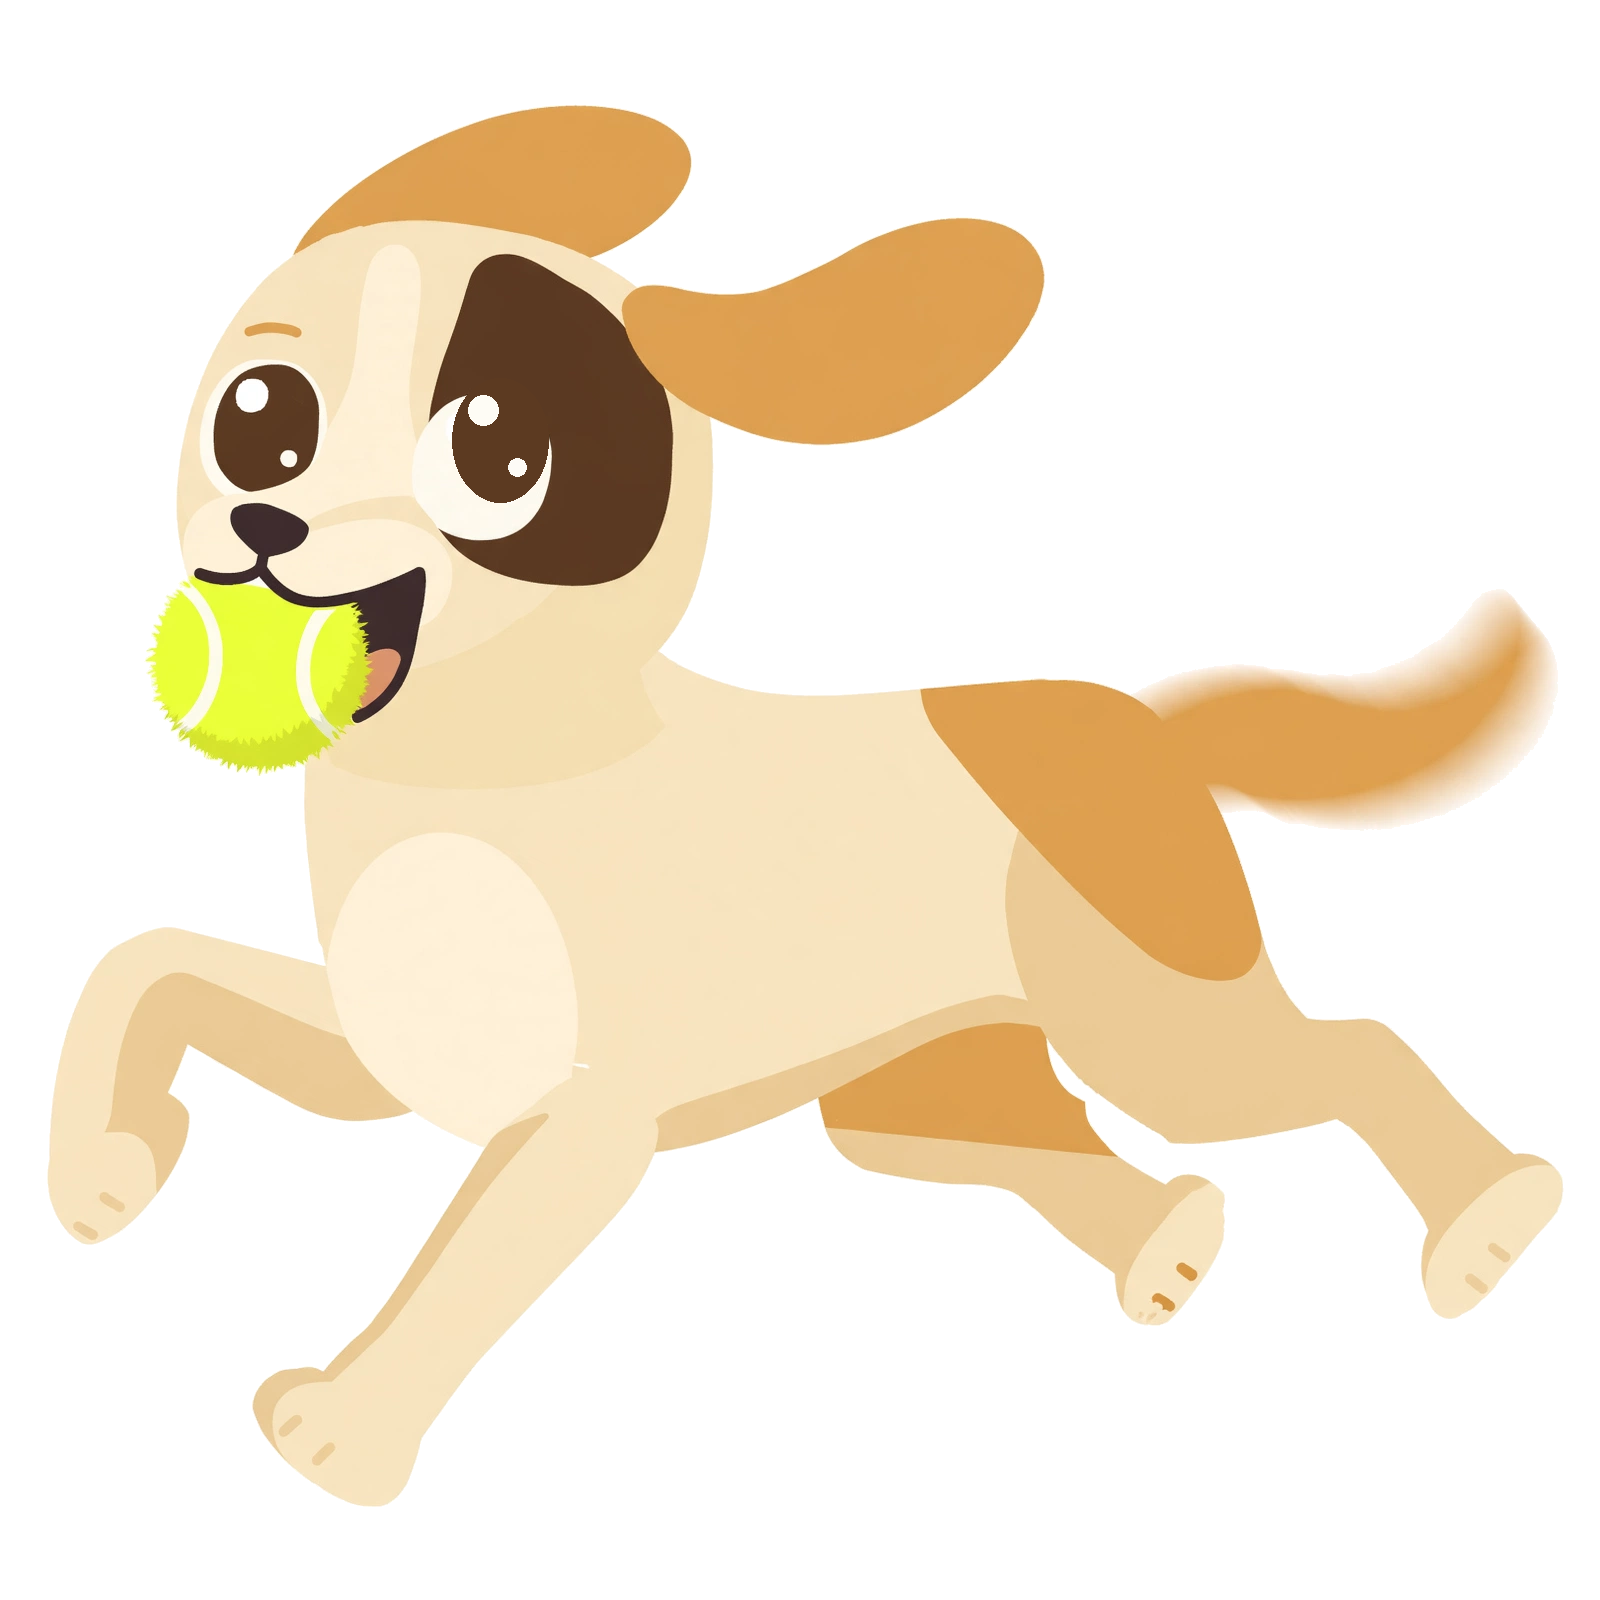
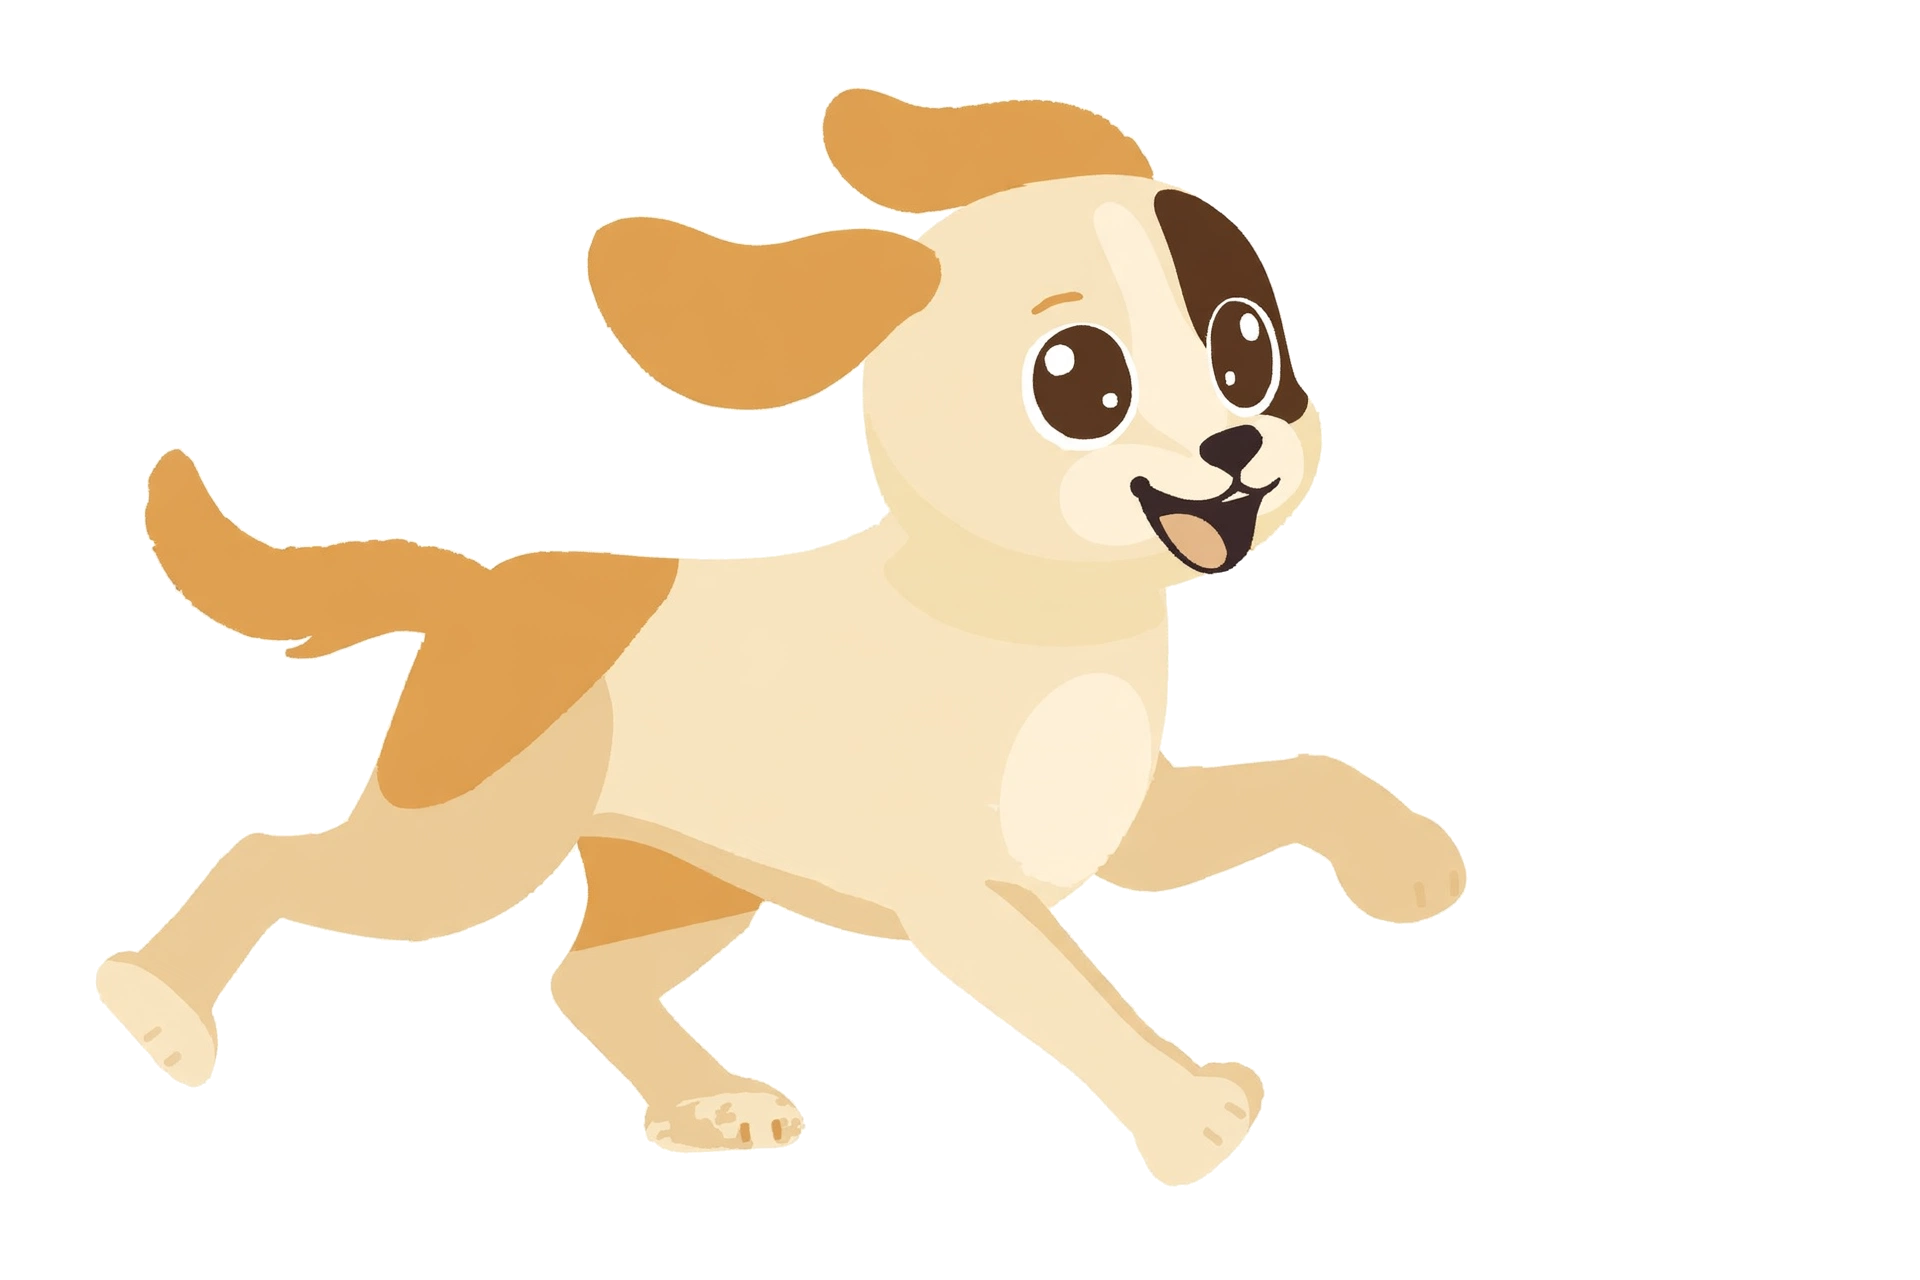
My Ghar: dog roams, faces, walks, real fetch; fetch pose ball removed

diff --git a/myghar.html b/myghar.html
@@ -4,7 +4,7 @@
 <meta charset="utf-8">
 <meta name="viewport" content="width=device-width, initial-scale=1">
 <title>Ghar — My Ghar</title>
-<link rel="stylesheet" href="style.css?v=14">
+<link rel="stylesheet" href="style.css?v=15">
 <script src="https://unpkg.com/@rive-app/webgl2@2.49.4/rive.js"></script>
 <script src="assets/js/bhunte-rive.js"></script>
 </head>
@@ -182,6 +182,109 @@ function poseImgFor(pose) {
   const isGrownup = dogStageFor(xp) === 2;
   if (isGrownup && POSE_IMGS[pose + "_grownup"]) return POSE_IMGS[pose + "_grownup"];
   return POSE_IMGS[pose];
+}
+// ---- The dog is alive: roaming, facing, walking, fetching. ----
+// Like the app's SpriteDogView, the website dog wanders the rug on its
+// own, faces the way it walks, walks (faster bob + tilt) while moving,
+// and on Fetch it runs out, picks the ball up, and carries it back.
+// The dog is 5 elements (static img, 3 Rive canvases, pose img) that all
+// share .myghar-dog; roaming moves them together via `left` (the dog-bob
+// animation only touches `transform`, so the two compose). Facing is a
+// --flip variable read inside every dog keyframe, so the flip composes
+// with the bob/walk/bounce instead of being overridden.
+const ROAM_MIN = 30, ROAM_MAX = 65, ROAM_HOME = 47.5;
+let dogRoamX = ROAM_HOME;   // current left % of the dog (all elements)
+let dogFacingLeft = false;  // false = facing right (normal)
+let roamTimer = null;
+let fetchTimers = [];
+function dogElements() {
+  return ["dog", "dog-rive", "dog-rive-puppy", "dog-rive-grownup", "dog-pose"]
+    .map(id => document.getElementById(id)).filter(Boolean);
+}
+function setDogFacing(left) {
+  dogFacingLeft = left;
+  dogElements().forEach(el => el.classList.toggle("facing-left", left));
+}
+function setDogLeft(pct, seconds) {
+  // Glide all dog elements to left pct%. `seconds` overrides the CSS
+  // 1.6s transition for faster moves (fetch).
+  dogElements().forEach(el => {
+    el.style.transition = seconds ? `left ${seconds}s ease-in-out` : "";
+    el.style.left = pct + "%";
+  });
+  dogRoamX = pct;
+}
+function setDogWalking(on) {
+  dogElements().forEach(el => el.classList.toggle("walking", on));
+}
+function dogIsLocked() {
+  try { return (readState().missionsDone || 0) < 10; } catch (e) { return true; }
+}
+function roamStep() {
+  if (currentPose || arranging || dogIsLocked()) return;
+  const cur = dogRoamX;
+  let target = cur + (Math.random() * 24 - 12);
+  target = Math.max(ROAM_MIN, Math.min(ROAM_MAX, target));
+  if (Math.abs(target - cur) < 3) target = cur < 47.5 ? Math.min(ROAM_MAX, cur + 8) : Math.max(ROAM_MIN, cur - 8);
+  setDogFacing(target < cur);
+  setDogWalking(true);
+  setDogLeft(target);
+  setTimeout(() => setDogWalking(false), 1700);
+}
+function startRoam() {
+  if (roamTimer) return;
+  roamTimer = setInterval(roamStep, 4500);
+}
+function clearFetchTimers() {
+  fetchTimers.forEach(t => clearTimeout(t));
+  fetchTimers = [];
+}
+function fetchLater(fn, ms) {
+  fetchTimers.push(setTimeout(fn, ms));
+}
+// Fetch, like the app: the ball arcs out and lands, the dog runs right
+// to it, picks it up, and carries it back left — the ball stays at the
+// dog's mouth while both glide home. Only ONE ball: the animated emoji.
+// (The fetch pose picture has no ball in it.)
+function runFetchSequence() {
+  const ball = document.getElementById("fetch-ball");
+  if (!ball) return;
+  const startLeft = dogRoamX;
+  const landLeft = Math.min(startLeft + 16, 70);
+  const mouthOff = 4; // ball sits this far from the dog's centre, at its mouth
+  clearFetchTimers();
+  // Ball starts at the dog's mouth, then arcs out to the right and lands.
+  ball.style.transition = "left 0.7s ease-out, bottom 0.35s ease-out";
+  ball.style.left = (startLeft + mouthOff) + "%";
+  ball.style.bottom = "8%";
+  ball.hidden = false;
+  fetchLater(() => {
+    ball.style.left = landLeft + "%";
+    ball.style.bottom = "20%";
+  }, 30);
+  fetchLater(() => {
+    ball.style.transition = "bottom 0.35s ease-in";
+    ball.style.bottom = "8%";
+  }, 380);
+  // The dog runs right to the ball (walking, facing right).
+  fetchLater(() => {
+    setDogFacing(false);
+    setDogWalking(true);
+    setDogLeft(landLeft - 2, 0.9);
+  }, 700);
+  // Pick it up and carry it back left, ball at the mouth the whole way.
+  // The dog turns to face left for the walk home, so the ball rides on
+  // the left side of its centre.
+  fetchLater(() => {
+    setDogFacing(true);
+    ball.style.transition = "left 1s ease-in-out, bottom 0.4s ease-in-out";
+    ball.style.left = (startLeft - mouthOff) + "%";
+    setDogLeft(startLeft, 1);
+  }, 1600);
+  fetchLater(() => {
+    setDogWalking(false);
+    ball.hidden = true;
+  }, 2700);
 }
 let currentPose = null; // "sleep" | "eat" | "fetch" | null
 let poseTimer = null;
@@ -697,15 +800,13 @@ function showPose(pose) {
   if (grownupCanvas) grownupCanvas.style.display = "none";
   img.src = poseImgFor(pose);
   img.hidden = false;
-  // Fetch animates like the app: the dog runs out after the ball and back.
-  // (Sleep/Feed are still pictures; only Fetch gets the run.)
+  // Fetch runs the real sequence (ball out, dog runs to it, carries it
+  // back); Sleep/Feed are still pictures.
   const ball = document.getElementById("fetch-ball");
   if (pose === "fetch") {
-    img.classList.add("fetching");
-    if (ball) { ball.hidden = false; ball.classList.remove("ball-arc"); void ball.offsetWidth; ball.classList.add("ball-arc"); }
+    runFetchSequence();
   } else {
-    img.classList.remove("fetching");
-    if (ball) { ball.hidden = true; ball.classList.remove("ball-arc"); }
+    if (ball) ball.hidden = true;
   }
   const xp = parseInt(localStorage.getItem("ghar.xp.total") || "0", 10);
   img.style.width = STAGE_WIDTH[dogStageFor(xp)] + "%";
@@ -717,9 +818,11 @@ function clearPose() {
   const img = document.getElementById("dog-pose");
   if (poseTimer) { clearTimeout(poseTimer); poseTimer = null; }
   currentPose = null;
-  if (img) { img.hidden = true; img.classList.remove("fetching"); }
+  clearFetchTimers();
+  setDogWalking(false);
+  if (img) img.hidden = true;
   const ball = document.getElementById("fetch-ball");
-  if (ball) { ball.hidden = true; ball.classList.remove("ball-arc"); }
+  if (ball) ball.hidden = true;
   document.getElementById("hint").textContent = "Tap Bhunte and he'll bark! 🐶";
   const state = readState();
   renderDog(state.xp, state);
@@ -766,6 +869,15 @@ function barkForStage() {
   const xp = parseInt(localStorage.getItem("ghar.xp.total") || "0", 10);
   const stage = dogStageFor(xp);
   play(stage === 0 ? "assets/audio/nepal-v1/dog_bark.m4a" : "assets/audio/nepal-v1/dog_bark_big.m4a");
+  // A tap is a pet: the visible dog bounces happily (the static img has
+  // its own click handler that does the same; this covers the Rive dogs).
+  const visible = dogElements().find(el => el.style.display !== "none" && !el.hidden);
+  if (visible) {
+    visible.classList.remove("bounce");
+    void visible.offsetWidth;
+    visible.classList.add("bounce");
+    setTimeout(() => visible.classList.remove("bounce"), 550);
+  }
 }
 function riveReady() {
   const state = readState();
@@ -983,6 +1095,8 @@ GharAuth.pull().catch(() => {}).then(async () => {
   renderMysteryItems();
   renderMysteryButton(state);
   renderDog(state.xp, state);
+  // The dog lives here now: it wanders the rug on its own (see roamStep).
+  startRoam();
   // All 10 pack missions done and the celebration hasn't been shown yet:
   // Bhunte is earned — celebrate it here in the room (once, via the flag).
   // The missions page sets the same flag, so whichever the kid sees first

diff --git a/style.css b/style.css
@@ -343,33 +343,28 @@ EOF'
 .myghar-sign-name { position: absolute; left: 50%; top: 42.7%; transform: translate(-50%, -50%); font-weight: 800; color: #4e342e; font-size: clamp(14px, 2vw, 26px); letter-spacing: 0.5px; white-space: nowrap; z-index: 4; }
 .myghar-night { position: absolute; inset: 0; background: rgba(10, 20, 60, 0.35); z-index: 6; pointer-events: none; }
 .myghar-weather { position: absolute; top: 10px; right: 10px; z-index: 7; background: rgba(255,255,255,.85); border-radius: 999px; padding: 4px 12px; font-size: 14px; font-weight: 600; }
-.myghar-dog { position: absolute; left: 47.5%; bottom: 3%; width: 20%; transform: translateX(-50%); z-index: 5; cursor: pointer; animation: dog-bob 2.4s ease-in-out infinite; }
-@keyframes dog-bob { 0%, 100% { transform: translateX(-50%) translateY(0); } 50% { transform: translateX(-50%) translateY(-4px); } }
+.myghar-dog { position: absolute; left: 47.5%; bottom: 3%; width: 20%; transform: translateX(-50%); z-index: 5; cursor: pointer; animation: dog-bob 2.4s ease-in-out infinite; transition: left 1.6s ease-in-out; --flip: 1; }
+/* Facing: the dog turns to face the way it walks. --flip is read inside
+   every dog keyframe (bob / walk / bounce), so the flip composes with the
+   bob instead of the animation overriding it. */
+.myghar-dog.facing-left { --flip: -1; }
+@keyframes dog-bob { 0%, 100% { transform: translateX(-50%) scaleX(var(--flip, 1)) translateY(0); } 50% { transform: translateX(-50%) scaleX(var(--flip, 1)) translateY(-4px); } }
 @keyframes moti-bob { 0%, 100% { transform: translateY(0); } 50% { transform: translateY(-4px); } }
 @keyframes moti-bounce { 0% { transform: scale(1); } 40% { transform: scale(1.12) translateY(-8px); } 100% { transform: scale(1); } }
 .myghar-dog.bounce { animation: dog-bounce .5s ease; }
-@keyframes dog-bounce { 0% { transform: translateX(-50%) scale(1); } 40% { transform: translateX(-50%) scale(1.12) translateY(-8px); } 100% { transform: translateX(-50%) scale(1); } }
-/* Fetch: the dog runs out after the ball and back (like the app), ~2.6s.
-   The pose img keeps its translateX(-50%) centering; the run adds a
-   horizontal offset on top of it. The ball arcs out and back on the
-   same beat. */
-.myghar-dog.fetching { animation: fetch-run 2.6s ease-in-out; }
-@keyframes fetch-run {
-  0% { transform: translateX(-50%) translateX(0) translateY(0); }
-  30% { transform: translateX(-50%) translateX(55%) translateY(-12px); }
-  55% { transform: translateX(-50%) translateX(110%) translateY(0); }
-  80% { transform: translateX(-50%) translateX(55%) translateY(-12px); }
-  100% { transform: translateX(-50%) translateX(0) translateY(0); }
+@keyframes dog-bounce { 0% { transform: translateX(-50%) scaleX(var(--flip, 1)) scale(1); } 40% { transform: translateX(-50%) scaleX(var(--flip, 1)) scale(1.12) translateY(-8px); } 100% { transform: translateX(-50%) scaleX(var(--flip, 1)) scale(1); } }
+/* Walking (roaming / fetching): a faster, bigger bob with a slight
+   side-to-side tilt, so the dog reads as walking while it glides. */
+.myghar-dog.walking { animation: dog-walk 0.7s ease-in-out infinite; }
+@keyframes dog-walk {
+  0%, 100% { transform: translateX(-50%) scaleX(var(--flip, 1)) translateY(0) rotate(0deg); }
+  25% { transform: translateX(-50%) scaleX(var(--flip, 1)) translateY(-6px) rotate(-2deg); }
+  75% { transform: translateX(-50%) scaleX(var(--flip, 1)) translateY(-2px) rotate(2deg); }
 }
-#fetch-ball { position: absolute; left: 56%; bottom: 10%; font-size: 34px; z-index: 6; pointer-events: none; }
-#fetch-ball.ball-arc { animation: ball-arc 2.6s ease-in-out; }
-@keyframes ball-arc {
-  0% { transform: translate(0, 0); }
-  30% { transform: translate(90px, -80px); }
-  55% { transform: translate(190px, 0); }
-  80% { transform: translate(90px, -80px); }
-  100% { transform: translate(0, 0); }
-}
+/* Fetch ball: positioned by JS (left/bottom in %) so it can be thrown,
+   land, and be carried back at the dog's mouth. The left/bottom
+   transitions make every move glide smoothly. */
+#fetch-ball { position: absolute; left: 56%; bottom: 10%; font-size: 34px; z-index: 6; pointer-events: none; transition: left 0.8s ease-in-out, bottom 0.4s ease-in-out; }
 .myghar-hint { text-align: center; color: #666; font-size: 14px; margin: 8px 0; }
 .myghar-earn { background: #fff; border: 1px solid #e5e0d8; border-radius: 12px; padding: 16px 20px; margin: 16px 0; box-shadow: 0 2px 8px rgba(0,0,0,.05); }
 .myghar-earn h3 { margin: 0 0 4px; }
